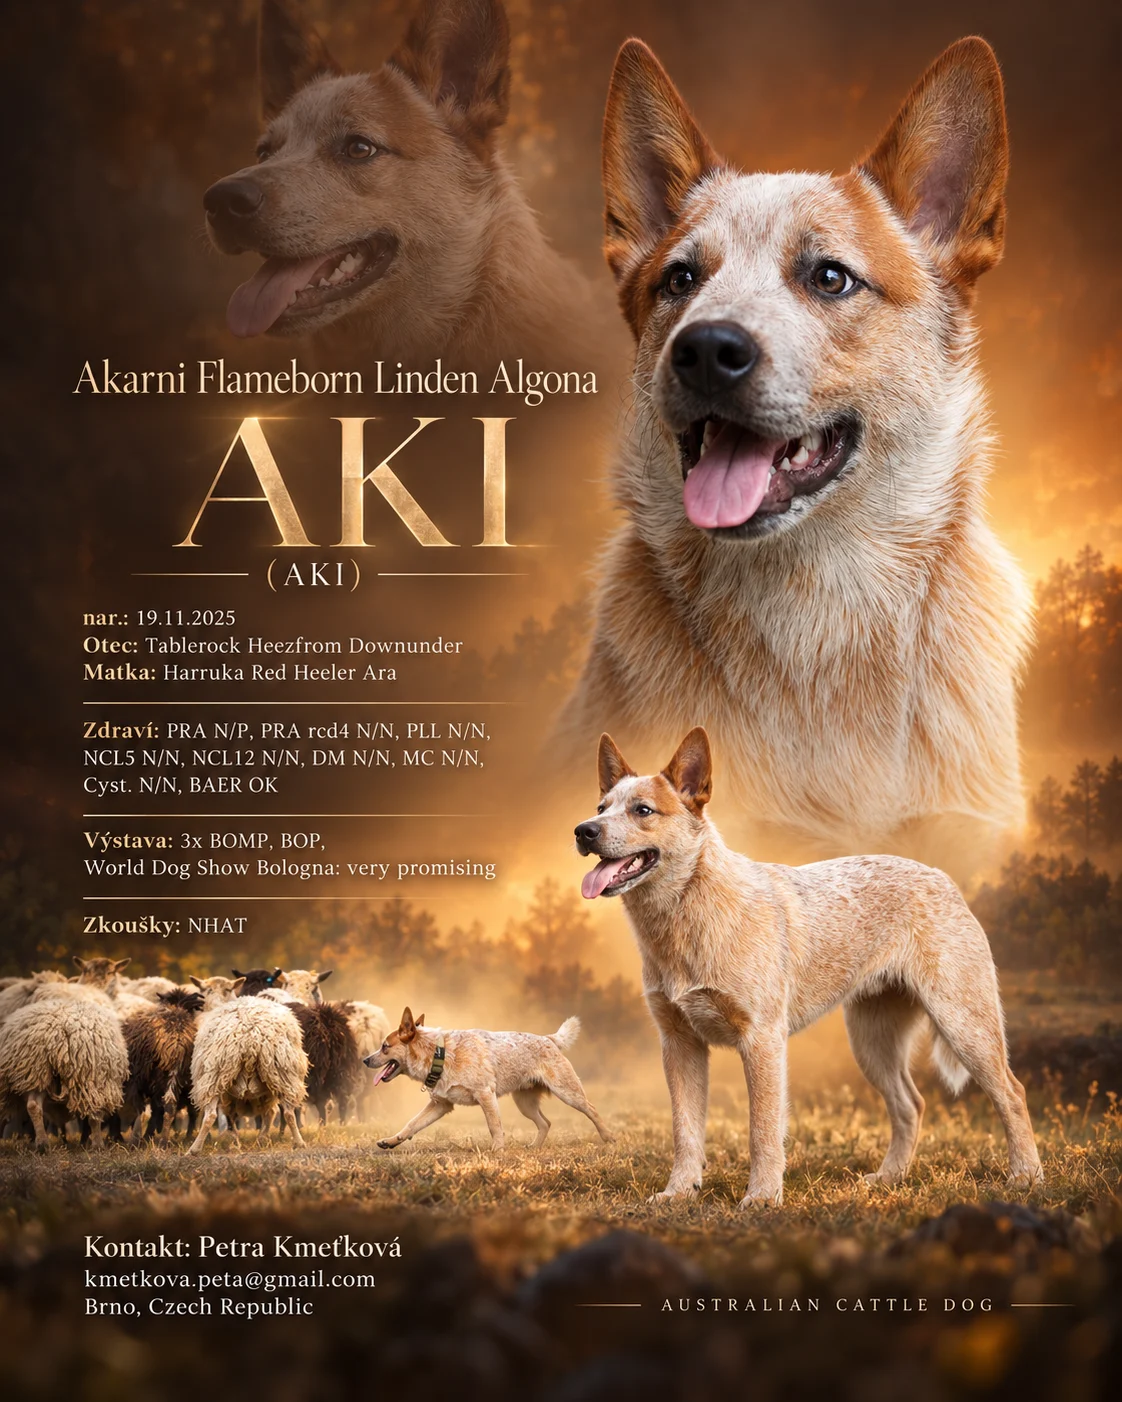
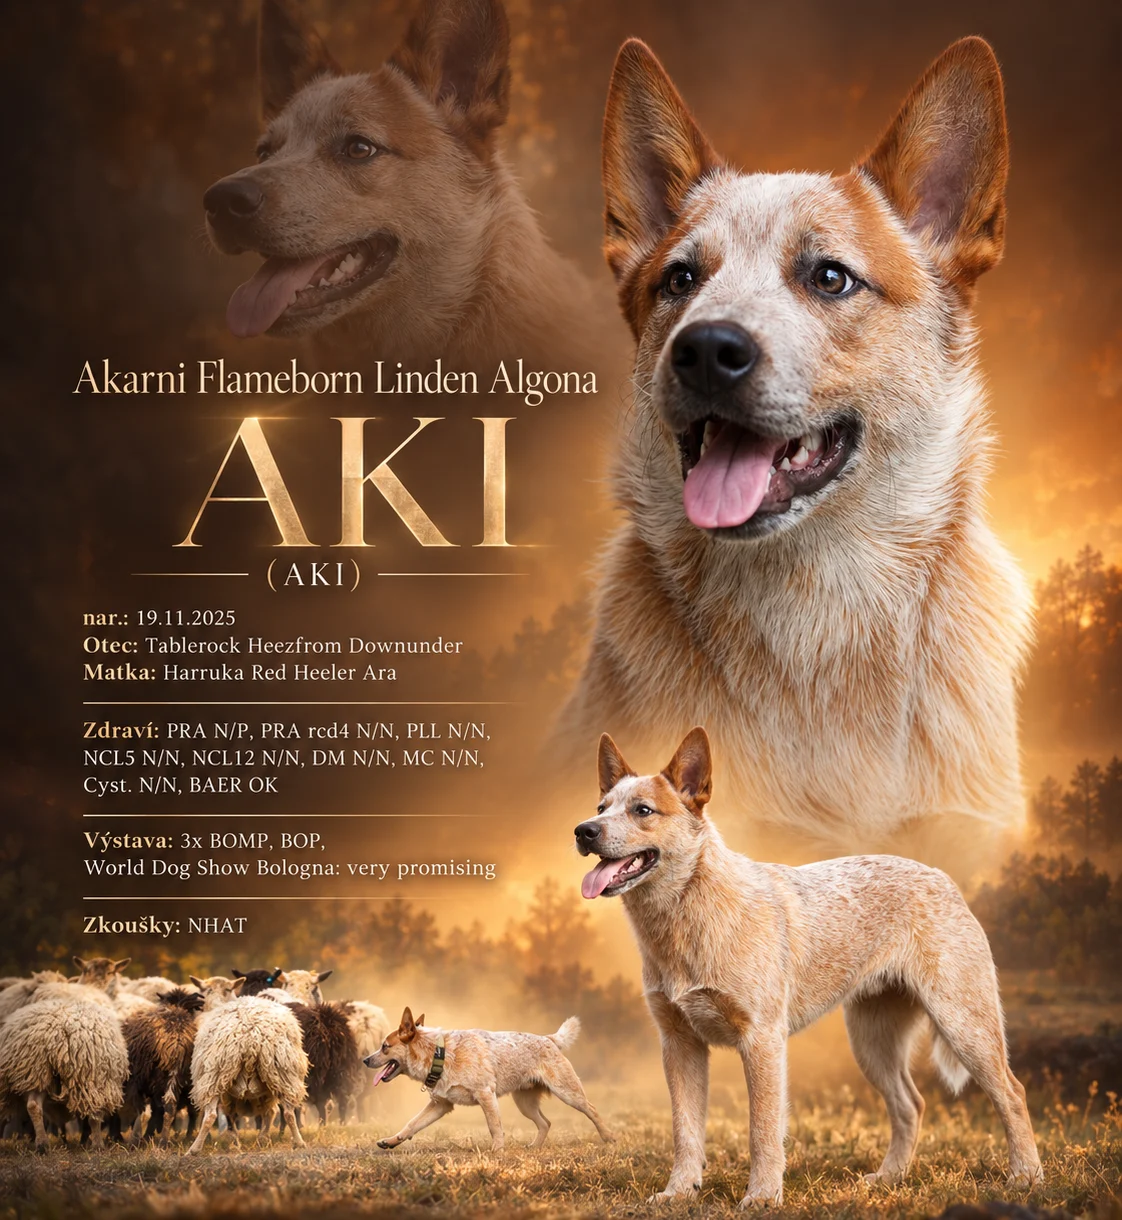
Remove personal contacts from dog pages and public artwork

diff --git a/src/data/content.ts b/src/data/content.ts
@@ -6,15 +6,10 @@ export const navigation = [
   { href: '#galerie', label: 'Galerie' },
 ];
 
-export const contacts = [
-  { name: 'Zdeněk Severa', phone: '+420 724 95 55 57', tel: '+420724955557', email: 'zdenek.severa@gmail.com' },
-  { name: 'Petra Kmetková', phone: '+420 735 533 537', tel: '+420735533537', email: 'kmetkova.peta@gmail.com' },
-];
-
 export const questions = [
   { question: 'Kdo jsou Aki a Adi?', answer: 'Aki je pes a Adi fenka. Oba jsou australští honáčtí psi a právě jim patří Raccoon Racing. Na těchto osobních stránkách je představujeme spolu s plemenem, které nás spojuje.' },
   { question: 'Co znamená jméno Akarni Flameborn Linden Algona?', answer: 'Je to celé jméno Akiho uvedené v jeho rodokmenu. Doma a na našich stránkách mu říkáme prostě Aki. V jeho profilu najdete také údaje o rodičích, zdraví, výstavách a zkouškách z prezentačního plakátu.' },
-  { question: 'Co najdete v galerii?', answer: 'Současná galerie patří Akimu. Portrét a postoj jsou výřezy z jeho prezentačního plakátu. Ten si můžete otevřít i celý a prohlédnout si všechny detaily. Každý obrázek nese popisek, takže vždy víte, na co se díváte.' },
+  { question: 'Co najdete v galerii?', answer: 'Současná galerie patří Akimu. Portrét a postoj jsou výřezy z jeho prezentačního plakátu. V galerii si můžete otevřít také plakát s portréty a údaji o Akim a prohlédnout si jeho detaily. Každý obrázek nese vlastní popisek.' },
   { question: 'Co je na honácích tak zajímavého?', answer: 'Na australském honáckém psovi nás přitahuje spojení bystré hlavy, pracovního založení a vztahu k člověku. Každý pes přitom zůstává sám sebou. Aki a Adi tak mají každý svůj vlastní příběh.' },
-  { question: 'Můžeme vám napsat i o svém psovi?', answer: 'Určitě. Zajímá nás, jak žijete se svými psími parťáky, co vás společně baví nebo co vás na honácích zaujalo. Ozvěte se Zdeňkovi nebo Petře — kontakty najdete hned pod těmito otázkami.' },
+  { question: 'Komu patří tyto stránky?', answer: 'Tyhle stránky jsou věnované Akimu a Adi. Je to místo pro jejich představení, fotografie a příběhy ze života dvou australských honáckých psů.' },
 ];

diff --git a/src/components/Gallery.tsx b/src/components/Gallery.tsx
@@ -13,7 +13,7 @@ import 'yet-another-react-lightbox/plugins/thumbnails.css';
 const photos = [
   { src: '/images/aki-portrait.webp', width: 800, height: 1152, title: 'Aki zblízka', tag: 'AKI · PORTRÉT', alt: 'Aki, pes plemene australský honácký pes, na portrétu z plakátu' },
   { src: '/images/aki-standing.webp', width: 900, height: 859, title: 'Tohle je Aki', tag: 'AKI · V POSTOJI', alt: 'Aki v postoji ve zlatém světle, výřez z jeho plakátu' },
-  { src: '/images/aki-poster.webp', width: 1122, height: 1402, title: 'Aki na jednom plakátu', tag: 'AKI · CELÝ PLAKÁT', alt: 'Akiho prezentační plakát s portréty, rodiči a výsledky' },
+  { src: '/images/aki-poster.webp', width: 1122, height: 1220, title: 'Aki na jednom plakátu', tag: 'AKI · PLAKÁT', alt: 'Akiho prezentační plakát s portréty, rodiči a výsledky' },
 ];
 const slides = photos.map(({ title, ...photo }) => ({ ...photo, description: title }));
 

diff --git a/src/components/Navigation.tsx b/src/components/Navigation.tsx
@@ -7,7 +7,7 @@ export default function Navigation() {
     <button className="menu-toggle" type="button" aria-expanded={open} aria-controls="main-navigation" onClick={() => setOpen(!open)} aria-label={open ? 'Zavřít menu' : 'Otevřít menu'}><span>{open ? '✕' : '☰'}</span></button>
     <nav id="main-navigation" className={`navigation ${open ? 'is-open' : ''}`} aria-label="Hlavní navigace">
       {navigation.map(item => <a key={item.href} href={item.href} onClick={() => setOpen(false)}>{item.label}</a>)}
-      <a className="nav-contact" href="#kontakt" onClick={() => setOpen(false)}>Napište nám <span aria-hidden="true">↗</span></a>
+      <a className="nav-contact" href="#nasi-psi" onClick={() => setOpen(false)}>Poznejte naši dvojici <span aria-hidden="true">↗</span></a>
     </nav>
   </>;
 }

diff --git a/README.md b/README.md
@@ -1,6 +1,6 @@
 # Raccoon Racing
 
-Osobní české stránky psa Akiho a fenky Adi, dvou australských honáckých psů. Za webem Raccoon Racing stojí Zdeněk Severa a Petra Kmetková. Astro, Tailwind CSS 4 a interaktivní React islands; TypeScript v přísném režimu. Stránka se sestavuje do statického HTML.
+Osobní české stránky psa Akiho a fenky Adi, dvou australských honáckých psů. Astro, Tailwind CSS 4 a interaktivní React islands; TypeScript v přísném režimu. Stránka se sestavuje do statického HTML.
 
 ## Spuštění
 
@@ -30,15 +30,17 @@ npm run prepare:images # znovu vytvoří WebP výřezy ze zdrojových PNG
 ## Obsah a úpravy
 
 - `src/pages/index.astro`: kompletní český obsah a struktura stránky.
-- `src/data/content.ts`: kontakty, navigace a časté dotazy.
+- `src/data/content.ts`: navigace a časté dotazy.
 - `src/styles/global.css`: barevnost, typografie, Tailwind a responzivní styly.
 - `src/components/`: React menu, profil psa s přístupnými záložkami, dialog galerie a FAQ.
 - Galerie používá `yet-another-react-lightbox`: zobrazení přes celou plochu, přepínání šipkami a gesty, náhledy, přiblížení a volitelný fullscreen. Ovládání je česky; původní malý dialog byl odstraněn.
 - `public/images/`: lokální obrázky. Portrétní a postojové výřezy jsou z dodaného plakátu, nikoli nové dokumentární fotografie.
 
-Fonty jsou servírované lokálně přes Fontsource. Web nepoužívá analytiku, externí fotografie, cookies ani nefunkční kontaktní formulář. Telefonní a e-mailové odkazy otevírají příslušnou aplikaci návštěvníka.
+Fonty jsou servírované lokálně přes Fontsource. Web neobsahuje osobní kontaktní údaje, telefonní ani e-mailové odkazy. Nepoužívá analytiku, externí fotografie ani cookies.
 
-Web má osobní zaměření: představení Akiho a Adi, náš společný svět, plemeno, fotografie a kontakt na lidi za webem. Údaje o Akim jsou přepsané z dodaného plakátu. O Adi jsou uvedené pouze potvrzené informace: jméno, pohlaví a plemeno. Její datum narození, původ ani výsledky se nevymýšlejí. Galerie a úvodní fotografie zobrazují Akiho a jsou tak označené; Adi má vlastní typografickou vizitku. Její fotografii lze doplnit, až bude k dispozici. Texty o společném životě jsou redakční návrh bez smyšlených konkrétních událostí či úspěchů.
+Web má osobní zaměření: představení Akiho a Adi, náš společný svět, plemeno a fotografie. Údaje o Akim jsou přepsané z dodaného plakátu. O Adi jsou uvedené pouze potvrzené informace: jméno, pohlaví a plemeno. Její datum narození, původ ani výsledky se nevymýšlejí. Galerie a úvodní fotografie zobrazují Akiho a jsou tak označené; Adi má vlastní typografickou vizitku. Její fotografii lze doplnit, až bude k dispozici. Texty o společném životě jsou redakční návrh bez smyšlených konkrétních událostí či úspěchů.
+
+Původní plakát obsahuje osobní kontakty, proto je uložený pouze lokálně v `.source-artwork/aki-poster.png` (adresář je ignorovaný Gitem). Veřejný `aki-poster.webp` je oříznutý nad kontaktním patičkovým blokem. Původní PNG se do veřejné složky ani buildu nekopíruje. Pro opětovné generování obrázků potřebujete lokální zdrojový plakát na této cestě; běžný build používá již připravené bezpečné soubory z `public/images/`.
 
 ## SEO a indexace
 
@@ -48,7 +50,7 @@ Produkční doména je `https://raccoonracing.cz/`. Je jednotně použita v cano
 - Pro neveřejnou testovací kopii nastavte `INDEXING_ENABLED=false` a znovu spusťte build. Sitemap pak neobsahuje URL a robots na ni neodkazuje. Robots umožňuje načtení stránky, aby vyhledávač mohl přečíst `noindex`.
 - `src/pages/robots.txt.ts` a `src/pages/sitemap.xml.ts` generují skutečné statické soubory `dist/robots.txt` a `dist/sitemap.xml` při každém sestavení.
 - Sitemap obsahuje hlavní stránku. Sekce s `#fragmentem`, obrázky ani chybová stránka nejsou samostatné indexované stránky. Není přidáváno smyšlené datum změny při každém buildu.
-- `src/components/Seo.astro` obsahuje title, description, canonical, Open Graph, Twitter Cards a JSON-LD pro osobní web: Person (Zdeněk a Petra), WebSite, WebPage a Thing (Aki a Adi jako témata stránky). Neuvádí vymyšlenou adresu, hodnocení ani komerční nabídku.
+- `src/components/Seo.astro` obsahuje title, description, canonical, Open Graph, Twitter Cards a JSON-LD pro osobní web: WebSite, WebPage a Thing (Aki a Adi jako témata stránky). Nezveřejňuje osobní profily ani kontaktní údaje.
 - Náhled pro sdílení je `public/images/social-card.jpg` (1200 × 630).
 - Všechny profilové záložky i odpovědi FAQ jsou už v serverem sestaveném HTML, takže jejich načtení nezávisí na spuštění Reactu.
 - `404.html` má vlastní `noindex` a nenastavuje canonical na hlavní stránku.
